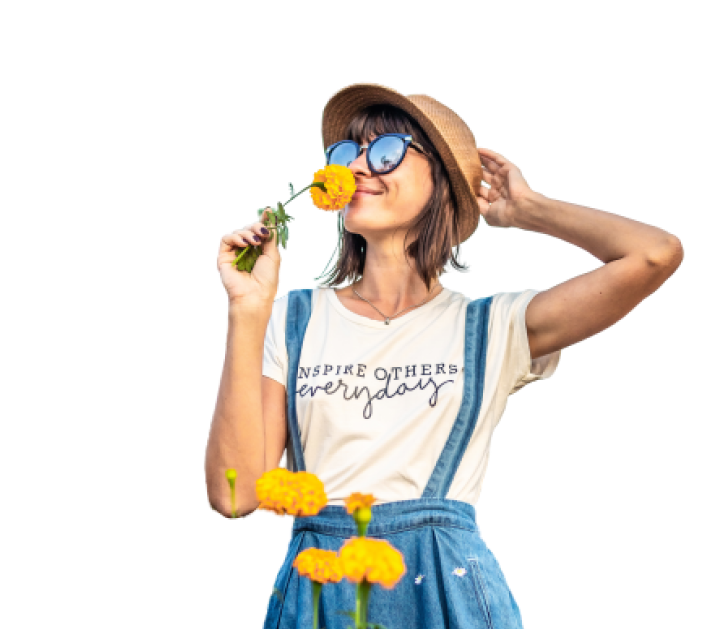
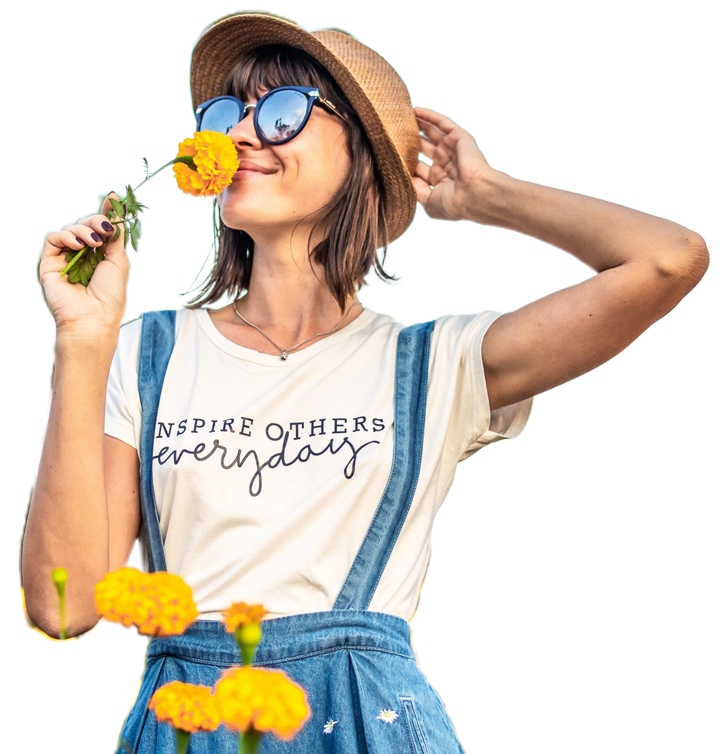
change image

diff --git a/components/IsHome.tsx b/components/IsHome.tsx
@@ -8,7 +8,7 @@ const IsHome: React.FC = () => {
     <>
         {
             pathname === '/' &&
-            <Image src='/images/beliakin.png' width={720} height={629} alt='image' className='absolute top-0 right-0 -z-10 mask bg-brand-yellow' />
+            <Image src='/images/pexels.png' width={720} height={629} alt='image' className='absolute top-0 right-0 -z-10 mask bg-brand-yellow' />
         }
     </>
   )

diff --git a/app/globals.css b/app/globals.css
@@ -7,4 +7,6 @@
     mask-position: bottom left;
     mask-size: cover;
     mask-repeat: no-repeat;
+    padding: 0 3em;
+    padding-top: 2em;
 }
